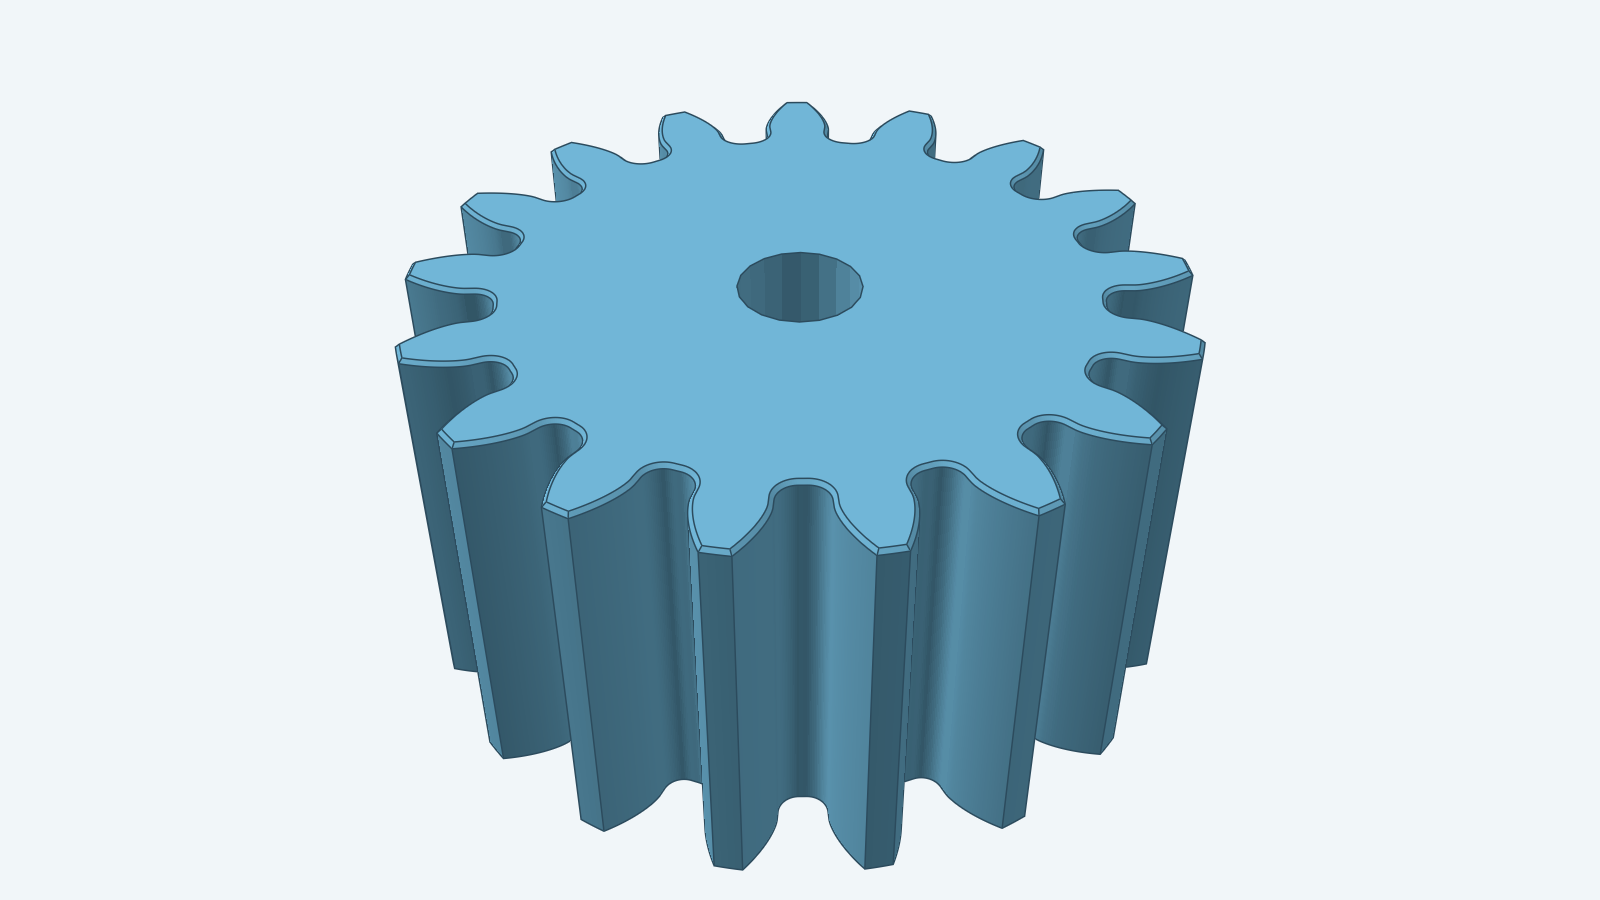
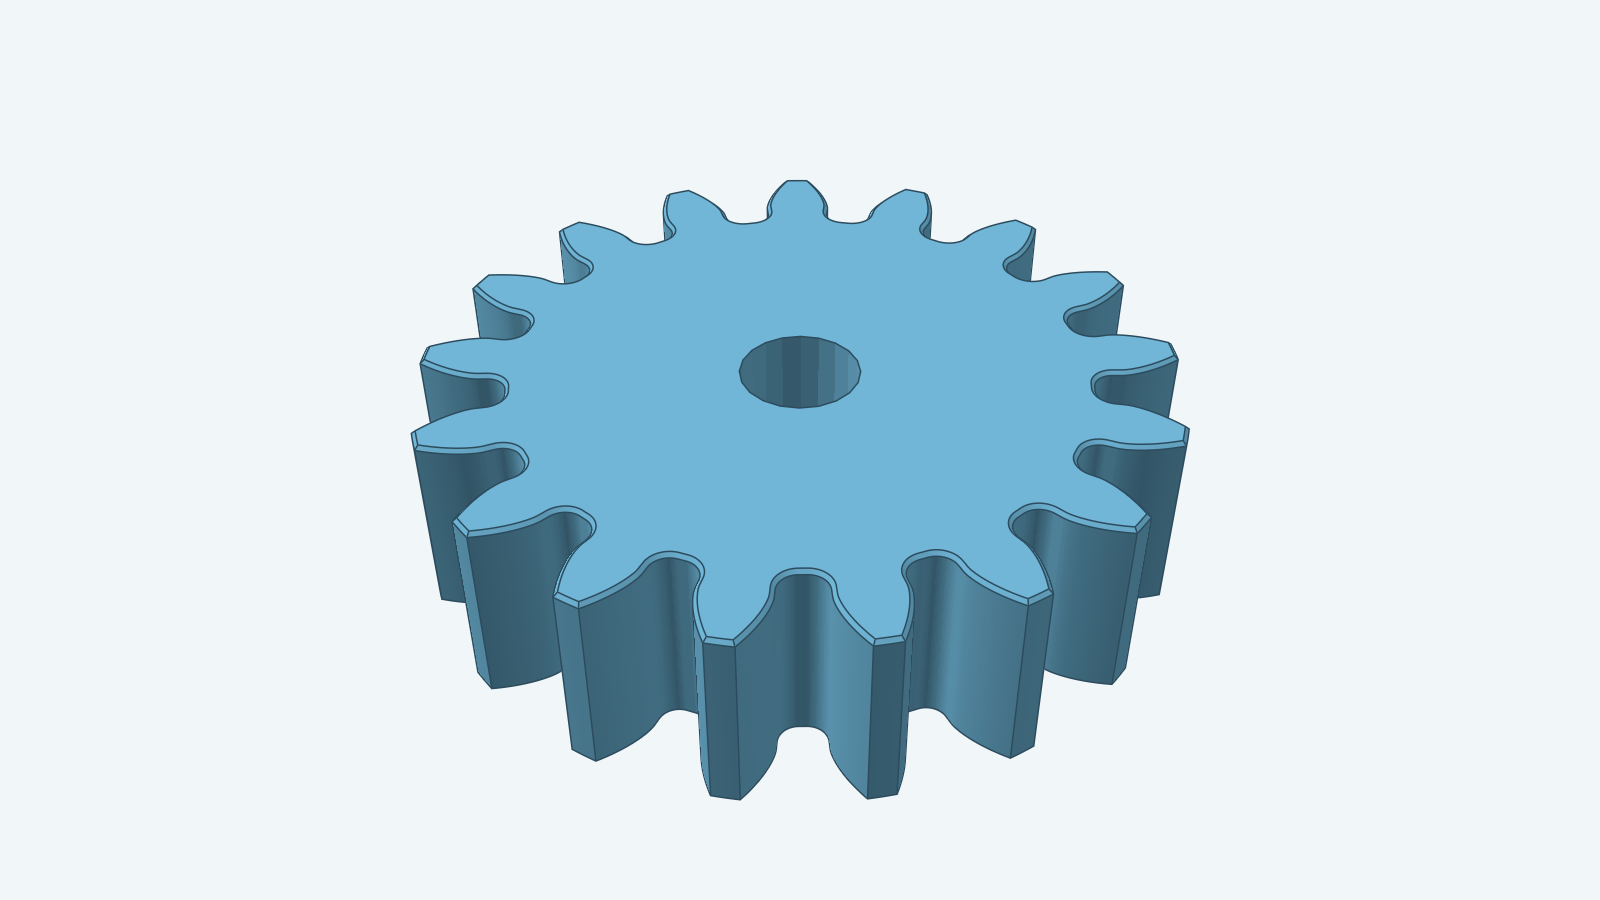
halve spur gear hero thickness

Changed region(s): [[0.25, 0.0933, 0.75, 0.7156], [0.2812, 0.6533, 0.75, 0.9644], [0.4375, 0.28, 0.5625, 0.4667]]

diff --git a/tools/render/spurgear.go b/tools/render/spurgear.go
@@ -12,6 +12,7 @@ import (
 
 func spurGearHero(ctx context.Context) (solidlens.Scene, error) {
 	params := spurgear.DefaultParams()
+	params.Thickness = 5
 	params.BoreDiameter = 3
 	params.CapChamfer = 0.1
 	body, err := spurgear.Build(ctx, decad.New(), params)
@@ -24,8 +25,8 @@ func spurGearHero(ctx context.Context) (solidlens.Scene, error) {
 	}
 	return solidlens.Scene{
 		Camera: solidlens.Camera{
-			Position: solidlens.Vec{X: 20, Y: -27, Z: 32},
-			Target:   solidlens.Vec{Z: 5},
+			Position: solidlens.Vec{X: 20, Y: -27, Z: 29.5},
+			Target:   solidlens.Vec{Z: 2.5},
 			Up:       solidlens.Vec{Z: 1},
 			FOV:      30,
 		},

diff --git a/models/spurgear/README.md b/models/spurgear/README.md
@@ -23,4 +23,4 @@ root circle, Sketch trims its original fit spline and joins the gear regions
 into one profile. A nonpositive derived fillet radius skips root fillets.
 
 The [model renderer](../../tools/render/README.md) produces this hero image
-from a 17-tooth gear with a 3 mm bore and a 0.1 mm cap chamfer.
+from a 17-tooth, 5 mm thick gear with a 3 mm bore and a 0.1 mm cap chamfer.
